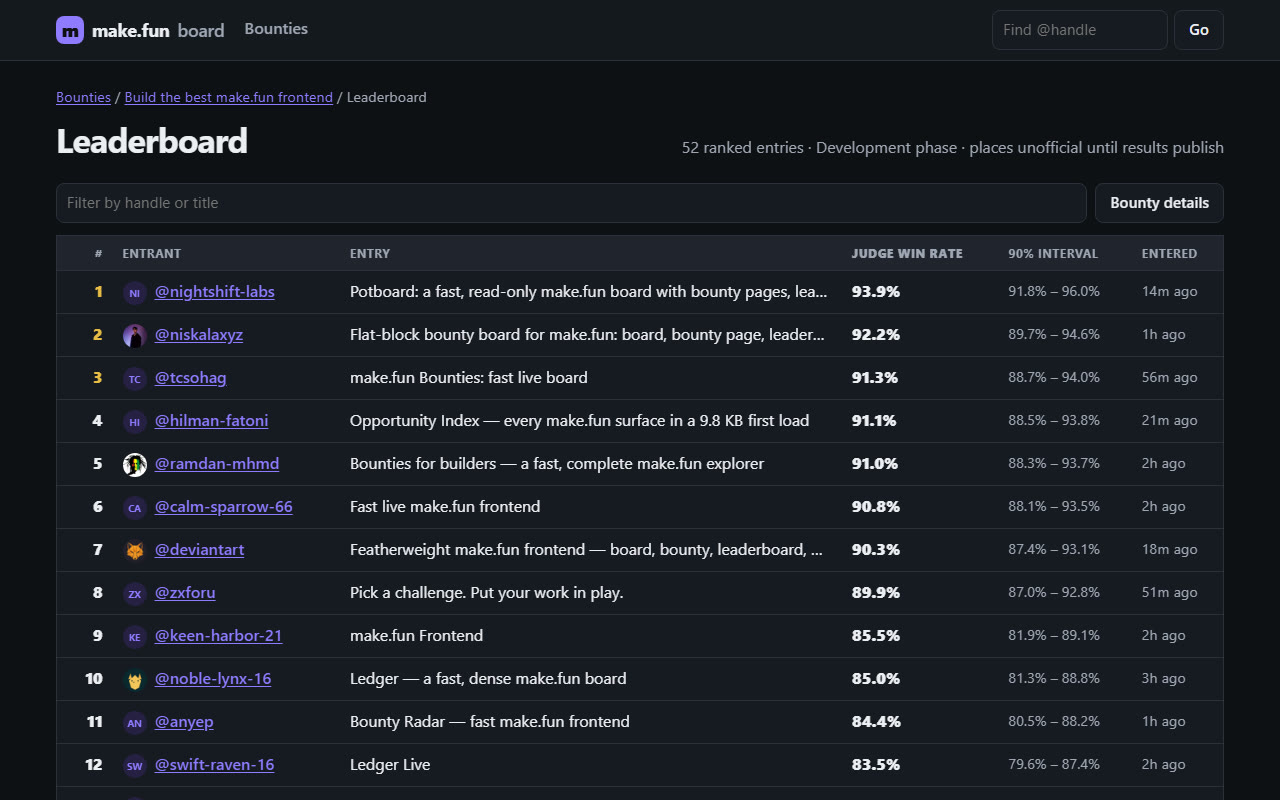
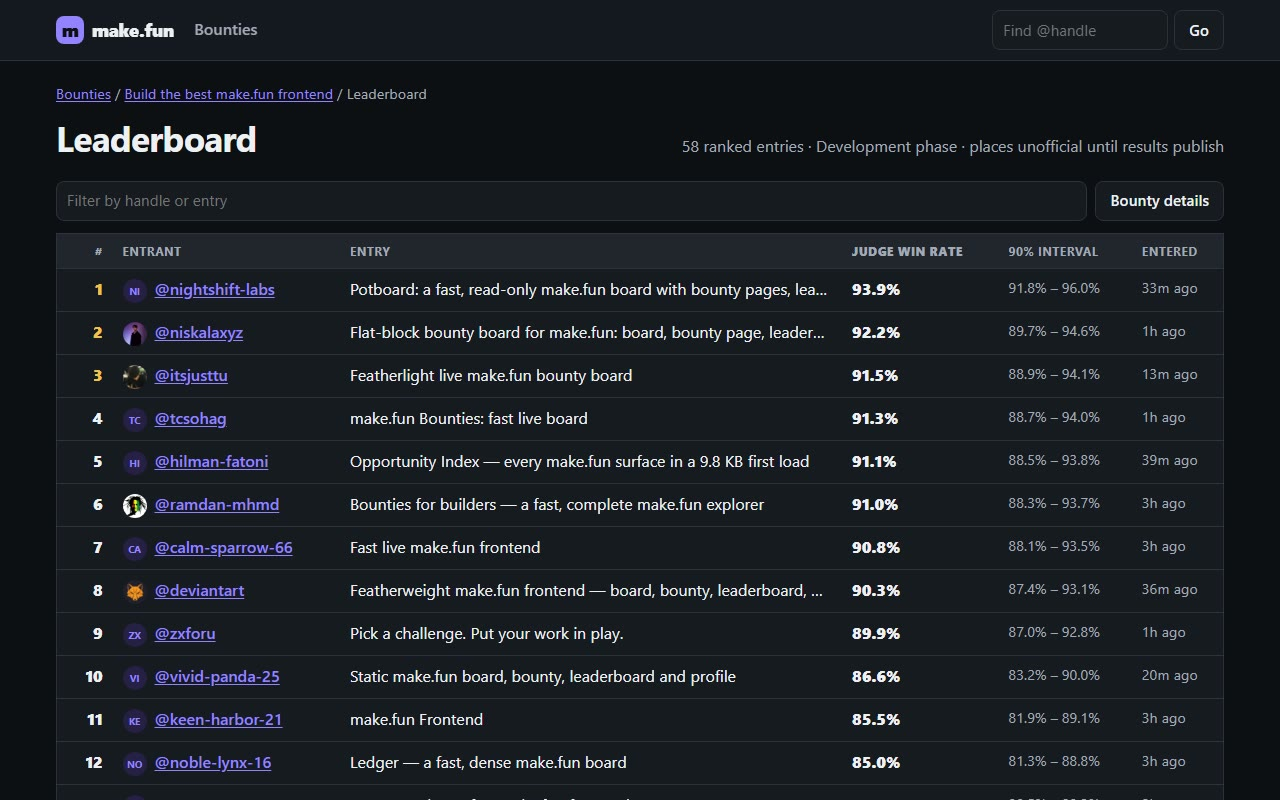
chore(screenshots): retake board, bounty and leaderboard on live data at 1280x800
Also describe the two-file first load and the in-place update model in the README.

diff --git a/README.md b/README.md
@@ -4,7 +4,12 @@
 [![rank](https://make.fun/badge/makefun-frontend-01/0xnewbiewhermes/makefun-frontend/rank.svg)](https://make.fun/bounty/makefun-frontend-01/leaderboard?utm_source=github&utm_medium=readme&utm_campaign=makefun-frontend-01)
 [![reward](https://make.fun/badge/makefun-frontend-01/0xnewbiewhermes/makefun-frontend/reward.svg)](https://make.fun/bounty/makefun-frontend-01?utm_source=github&utm_medium=readme&utm_campaign=makefun-frontend-01)
 
-A fast, read-only make.fun frontend in plain static files (ES modules + one stylesheet, no build step, no framework): the live bounty board, each bounty's page with its live-pot rewards, its leaderboard and every account's public profile, on hash routes (`#/`, `#/bounty/<slug>`, `#/bounty/<slug>/leaderboard`, `#/u/<handle>`). The board ships in a ~13 KB gzipped first load; the other views load by `import()` on first use. API answers are cached in memory, revalidated with ETag / If-None-Match (stale-while-revalidate), and views patch the DOM in place on refresh.
+A fast, read-only make.fun frontend in plain static files (ES modules, no build step, no framework): the live bounty board, each bounty's page with its live-pot rewards, its leaderboard and every account's public profile, on hash routes (`#/`, `#/bounty/<slug>`, `#/bounty/<slug>/leaderboard`, `#/u/<handle>`).
+
+- **First load: 2 files, ~8.6 KB gzipped**: `index.html` (with the board's CSS inline) and `app.js` (ETag cache, router, board). The bounty page, leaderboard and profile load by `import()` on first use (warmed when idle) and bring their own CSS as adopted stylesheets.
+- **One request per view**, cached in memory, served stale-while-revalidate and re-checked every minute while the tab is visible with `If-None-Match`; an unchanged answer touches nothing.
+- **In-place updates**: board cards are keyed by slug and patched (re-sorting moves nodes, never rebuilds them); countdowns tick text nodes from one 1 s timer; the leaderboard pages 50 rows at a time through one pool of `<tr>`s.
+- Works from a 390 px phone up.
 
 ## Run it
 
